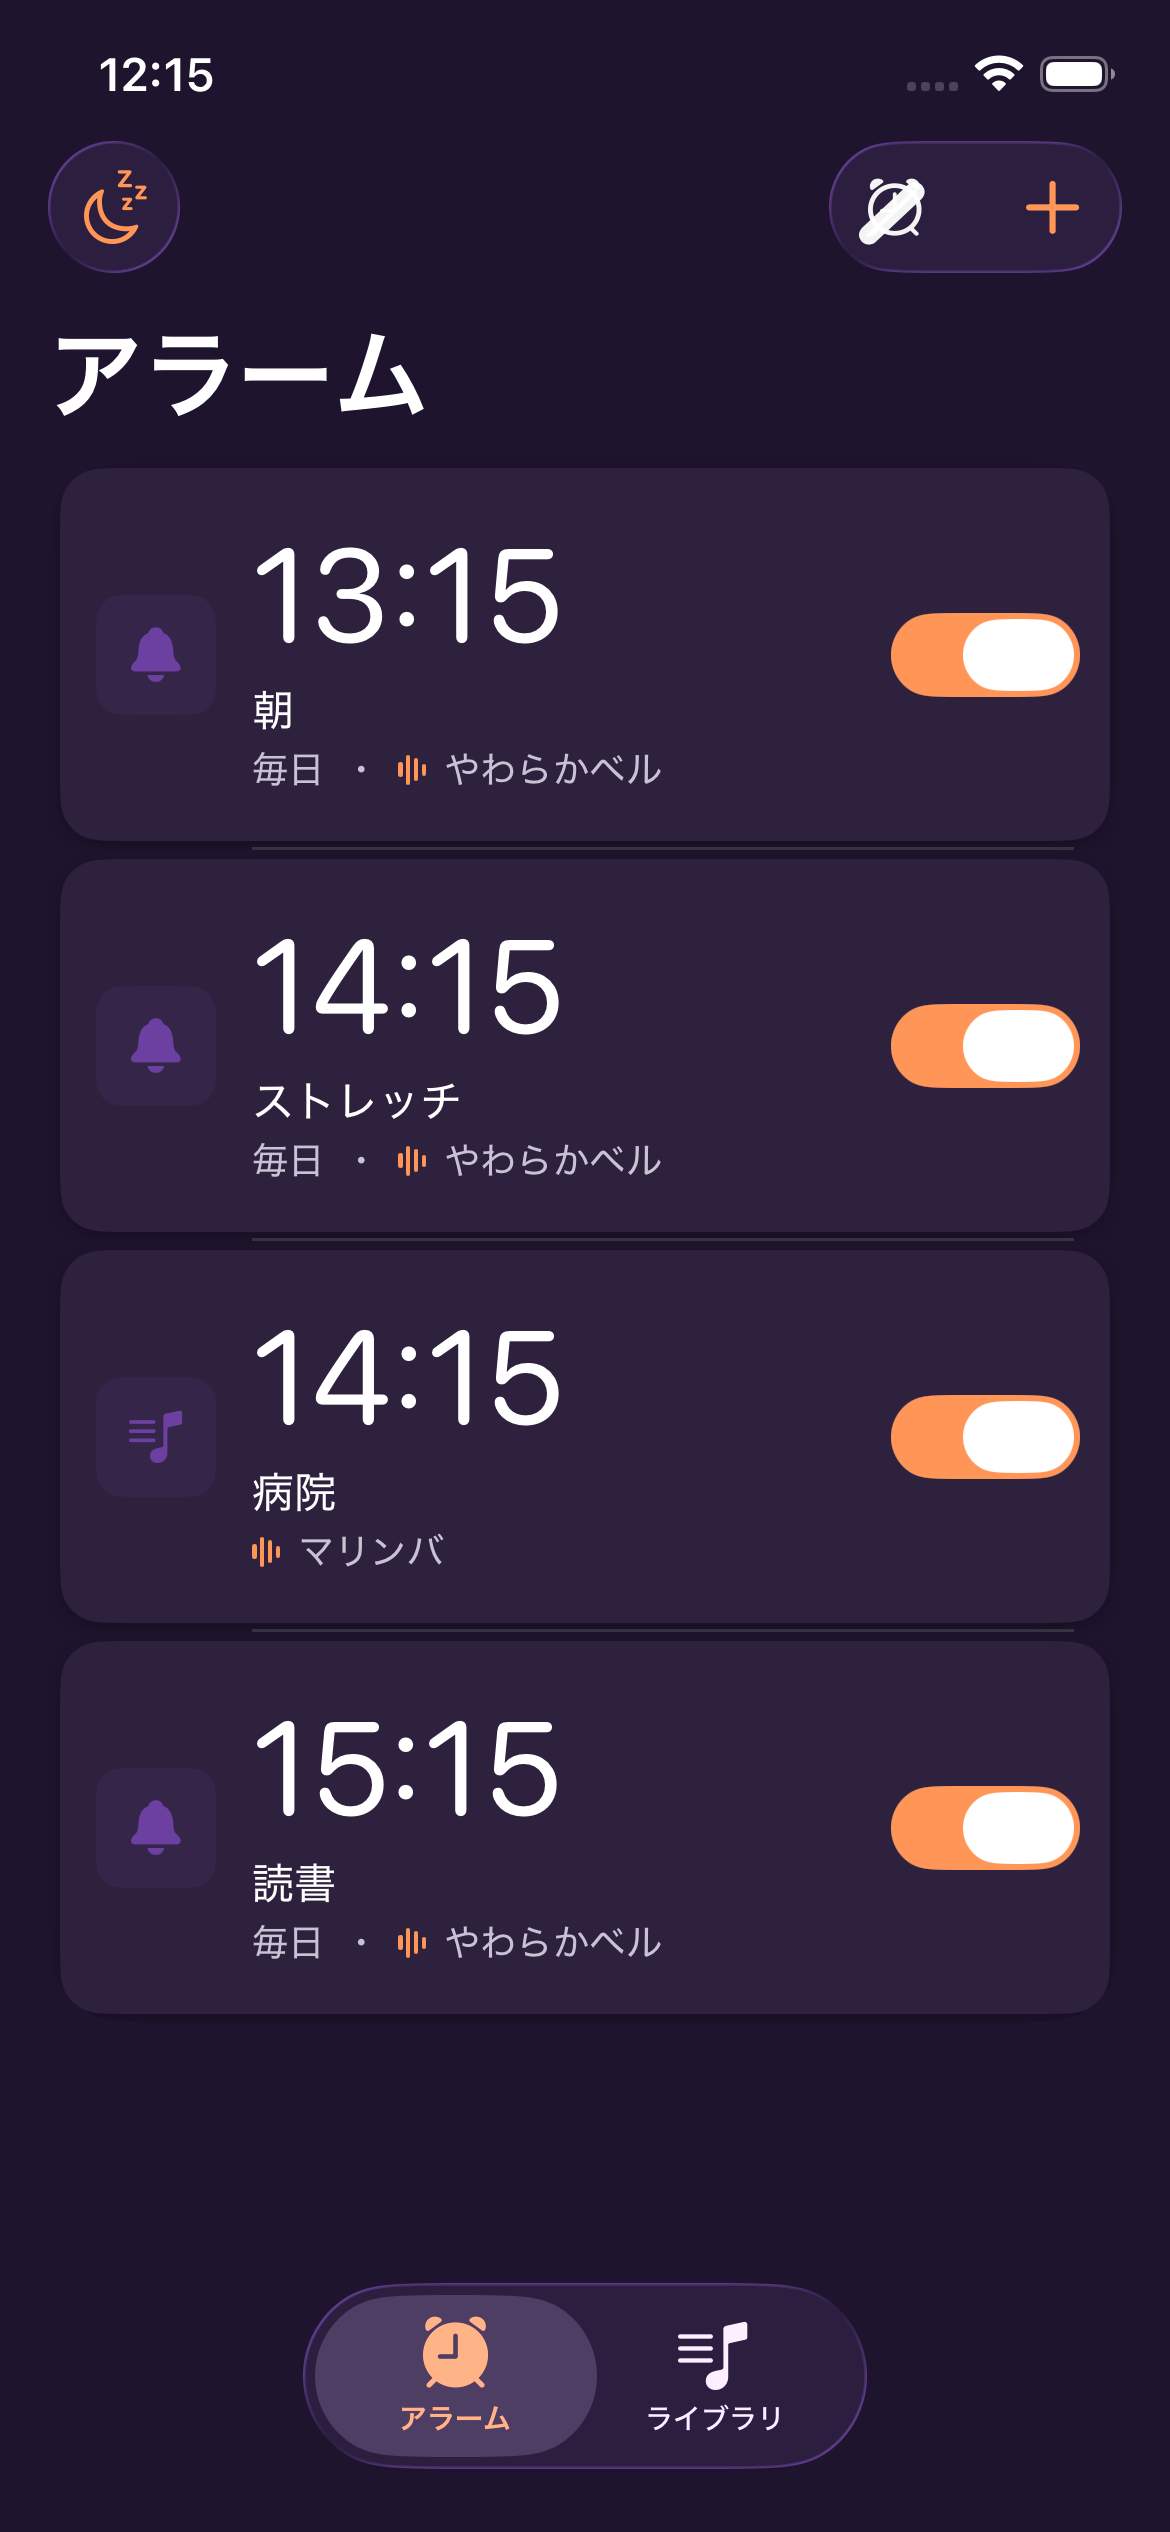
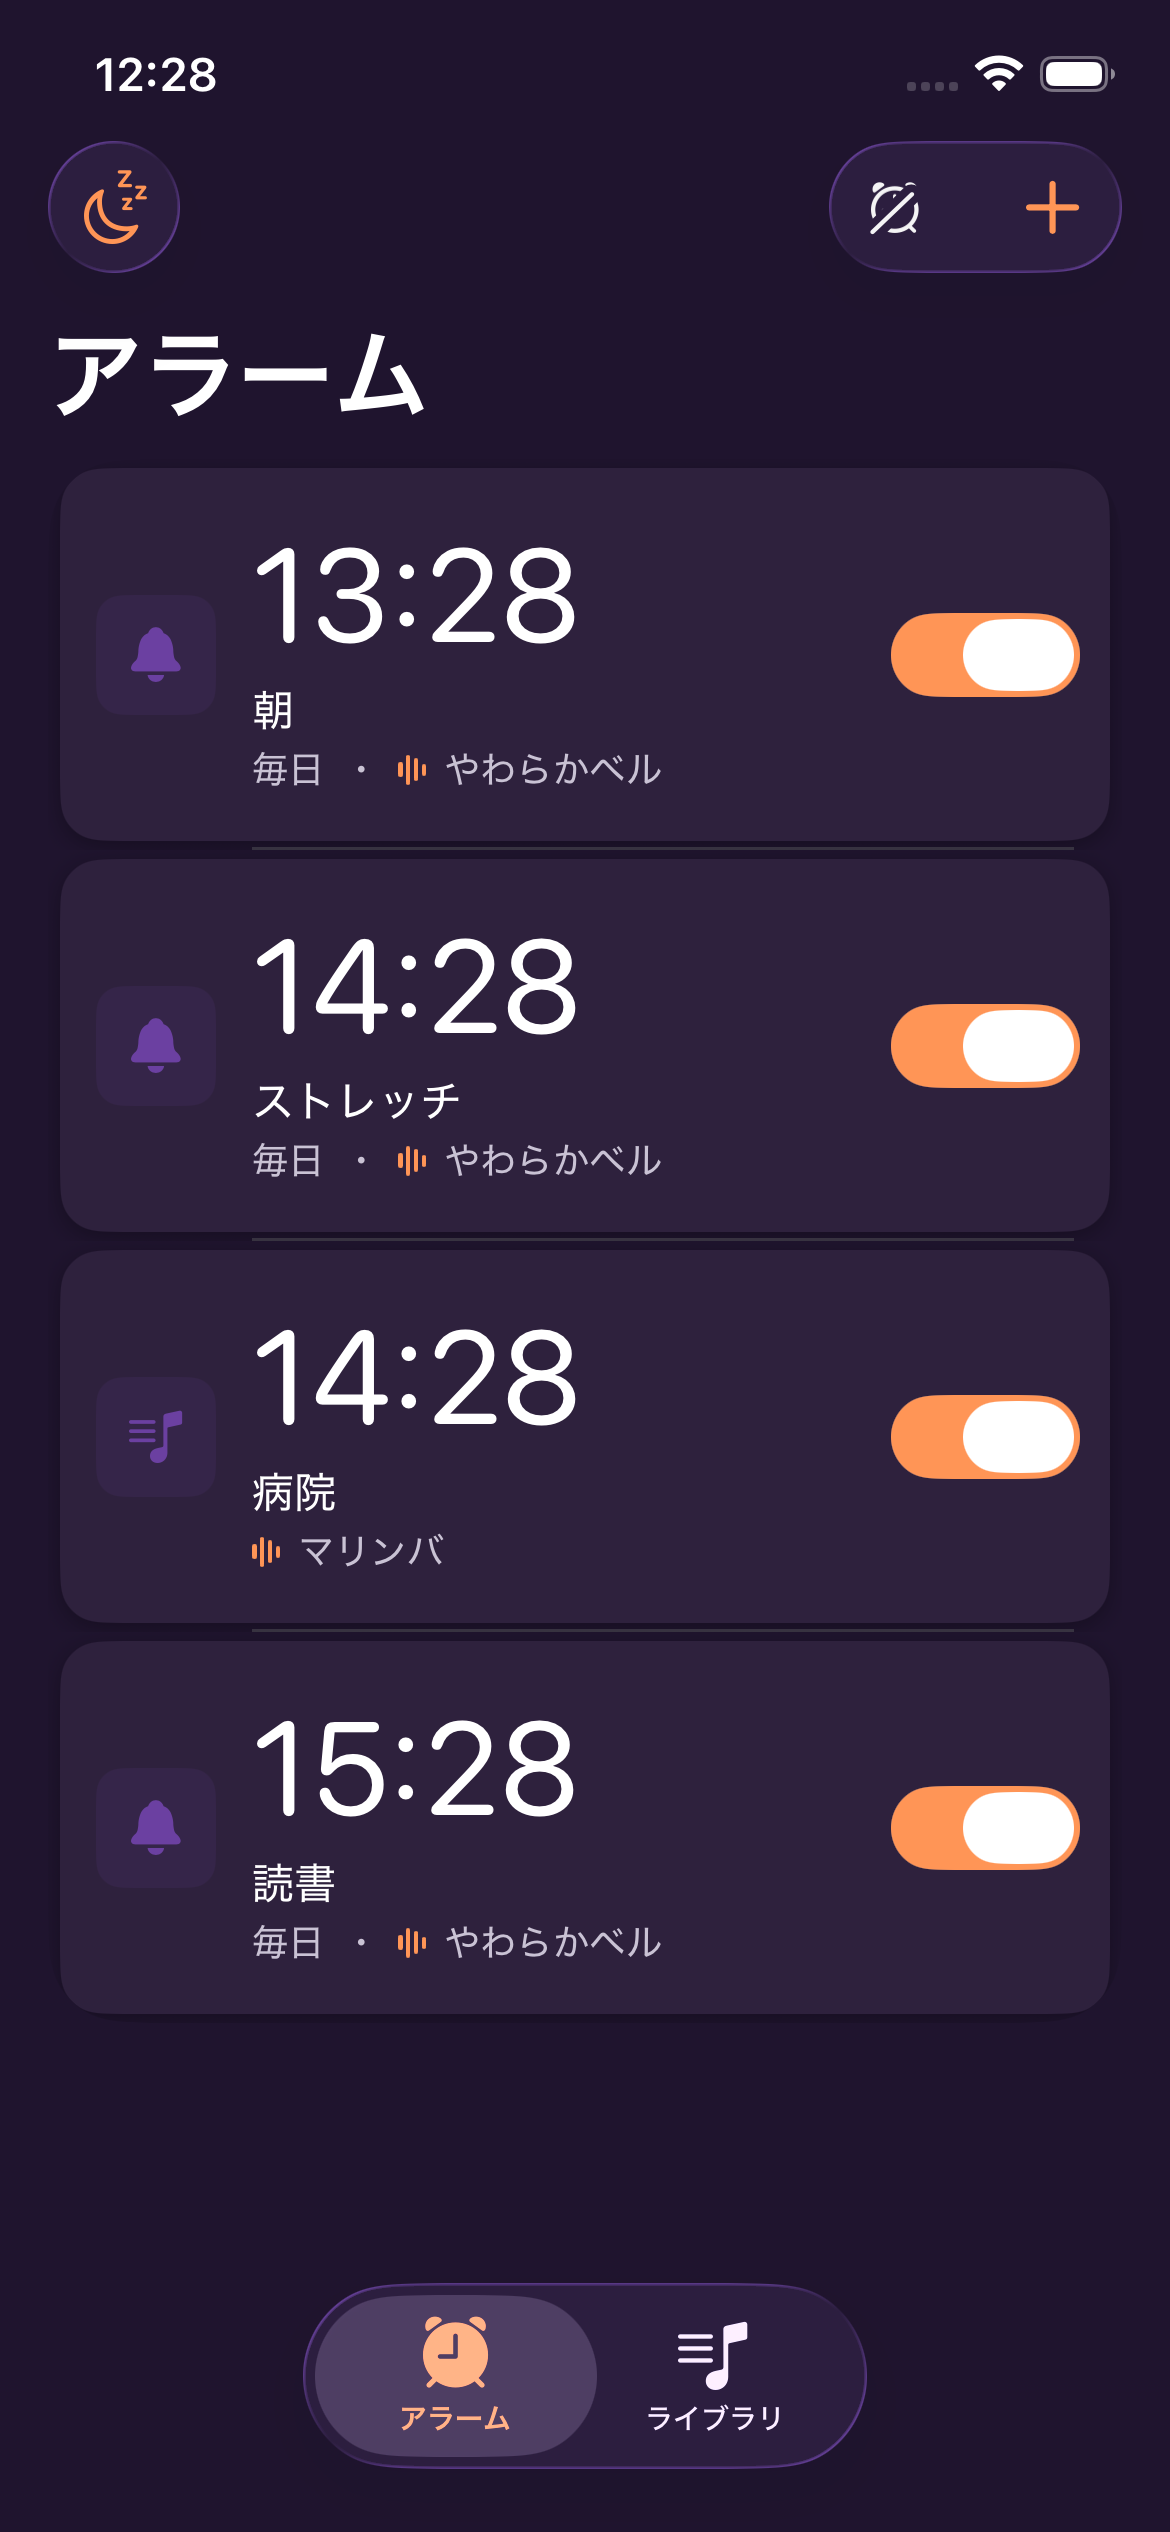
fix(skip): mask the slash gap and align it to the symbol bounds (#197)
- Replace the blendMode/destinationOut cut with an even-odd mask:
  the alarm symbol is masked by the rect minus a wide stroked slash,
  then a thin slash is drawn inside the gap.
- Size the icon to the SF Symbol's actual aspect ratio instead of a
  square frame, so the slash follows the drawn symbol bounds.
- Refresh the light/dark, normal/resting, and AX screenshots, add
  zoomed icon crops, and add menu/swipe screenshots.

diff --git a/CustomSoundAlarm/Views/AlarmSkipViews.swift b/CustomSoundAlarm/Views/AlarmSkipViews.swift
@@ -4,7 +4,7 @@ import UIKit
 /// 目覚まし時計に左下→右上の斜線を引いたアイコン（#197 実機レビュー）。
 ///
 /// SF Symbols には `alarm.slash` が無いため、`alarm` / `alarm.fill` の上に
-/// 斜線を描き、斜線の両側を `.destinationOut` で抜いてすき間を作る。
+/// 斜線を描く。斜線の両側は、本体をマスクで抜いてすき間を作る。
 struct AlarmSlashIcon: View {
     let filled: Bool
     /// メニュー用に ImageRenderer から描くときの固定サイズ。nil なら Dynamic Type。
@@ -16,21 +16,39 @@ struct AlarmSlashIcon: View {
     private var gapWidth: CGFloat { size * 0.15 }
     private var slashWidth: CGFloat { size * 0.085 }
 
+    private var symbol: UIImage? {
+        UIImage(systemName: filled ? "alarm.fill" : "alarm")
+    }
+
+    /// SF Symbol の実際の縦横比。正方形の枠に押し込めない。
+    private var aspectRatio: CGFloat {
+        guard let size = symbol?.size, size.height > 0 else { return 1 }
+        return size.width / size.height
+    }
+
+    private var iconSize: CGSize {
+        CGSize(width: size * aspectRatio, height: size)
+    }
+
+    private var baseImage: Image {
+        if let symbol {
+            return Image(uiImage: symbol).renderingMode(.template)
+        }
+        return Image(systemName: filled ? "alarm.fill" : "alarm")
+    }
+
     var body: some View {
         ZStack {
-            Image(systemName: filled ? "alarm.fill" : "alarm")
-                .resizable()
-                .scaledToFit()
-
-            // 斜線の両側を本体から抜く。
-            AlarmSlashShape()
-                .stroke(
-                    style: StrokeStyle(
-                        lineWidth: slashWidth + gapWidth * 2,
-                        lineCap: .round
-                    )
+            baseImage
+            .resizable()
+            .scaledToFit()
+            .mask(
+                AlarmSlashMask(
+                    slashWidth: slashWidth,
+                    gapWidth: gapWidth
                 )
-                .blendMode(.destinationOut)
+                .fill(style: FillStyle(eoFill: true))
+            )
 
             // 抜いたすき間の中央に斜線を描く。
             AlarmSlashShape()
@@ -38,8 +56,7 @@ struct AlarmSlashIcon: View {
                     style: StrokeStyle(lineWidth: slashWidth, lineCap: .round)
                 )
         }
-        .compositingGroup()
-        .frame(width: size * 1.15, height: size * 1.15)
+        .frame(width: iconSize.width, height: iconSize.height)
     }
 }
 
@@ -54,6 +71,25 @@ private struct AlarmSlashShape: Shape {
             x: rect.minX + rect.width * 0.84,
             y: rect.minY + rect.height * 0.24
         ))
+        return path
+    }
+}
+
+/// 本体から斜線の両側を抜くマスク（even-odd）。
+private struct AlarmSlashMask: Shape {
+    let slashWidth: CGFloat
+    let gapWidth: CGFloat
+
+    func path(in rect: CGRect) -> Path {
+        var path = Path(rect)
+        path.addPath(
+            AlarmSlashShape()
+                .path(in: rect)
+                .strokedPath(StrokeStyle(
+                    lineWidth: slashWidth + gapWidth * 2,
+                    lineCap: .round
+                ))
+        )
         return path
     }
 }
